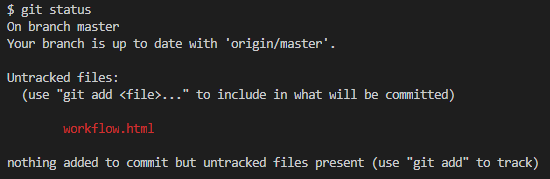
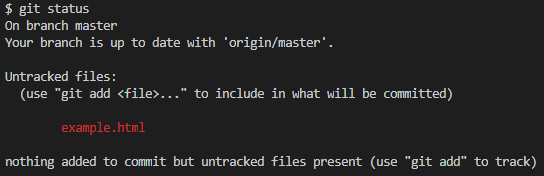
adds example images for workflow, deletes example.html

diff --git a/workflow.html b/workflow.html
@@ -194,6 +194,20 @@
                 </div>
             </div>
         </div>
+        <div class="container section-padding-50">
+            <div class="row">
+                <div class="wow fadeInUp" data-wow-delay="400ms">
+                    <img src="img/images/gitstatus2.PNG">
+                </div>
+            </div>
+        </div>
+        <div class="container section-padding-50">
+            <div class="row">
+                <div class="col-12 wow fadeInUp" data-wow-delay="400ms">
+                    <p>So, now the file is tracked. </p>
+                </div>
+            </div>
+        </div>
     </section>
     <!-- ##### About Us Area End ##### -->
 
